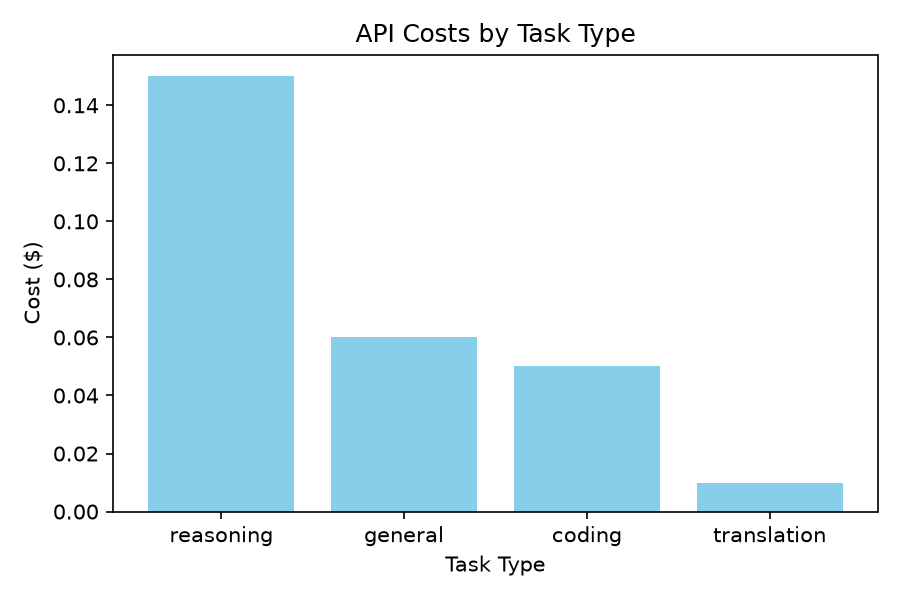
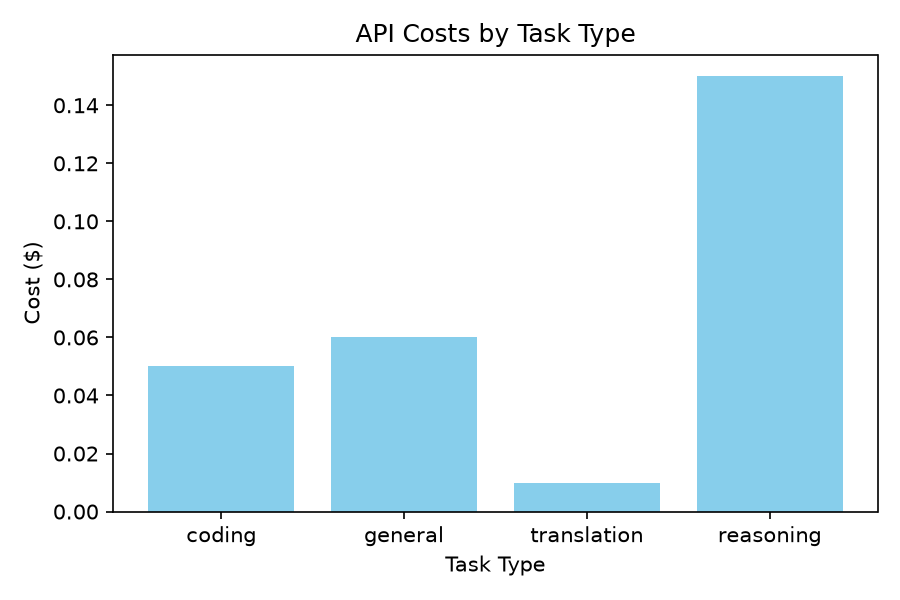
chore: update Cloudflare worker defaults, fix OpenTelemetry app instrumentation, refresh cost report data

diff --git a/infrastructure/cloudflare/worker.js b/infrastructure/cloudflare/worker.js
@@ -20,9 +20,12 @@ const HEALTH_TIMEOUT_MS = 4000;
 /** Build backend list from env, filter unconfigured ones */
 function buildBackends(env) {
   return [
-    { name: "gcp", url: env.GCP_CLOUD_RUN_URL, weight: 40, healthy: true },
-    { name: "railway", url: env.RAILWAY_URL, weight: 35, healthy: true },
-    { name: "render", url: env.RENDER_URL, weight: 25, healthy: true },
+  // GCP Cloud Run — primary (40% traffic)
+  { name: "gcp",     url: env.GCP_CLOUD_RUN_URL ?? "https://supremeai-api-565236080752.us-central1.run.app", weight: 40, healthy: true },
+  // Railway — secondary (35% traffic)
+  { name: "railway", url: env.RAILWAY_URL        ?? "https://supremeai-api-production-c6c8.up.railway.app",  weight: 35, healthy: true },
+  // Render — tertiary (25% traffic)
+  { name: "render",  url: env.RENDER_URL         ?? "https://supremeai-gzwe.onrender.com",                   weight: 25, healthy: true },
   ].filter((b) => b.url && b.url.startsWith("http"));
 }
 

diff --git a/core/app.py b/core/app.py
@@ -89,12 +89,6 @@ app.add_middleware(RateLimitMiddleware, requests_per_minute=120, burst=20)
 app.add_middleware(AuthMiddleware)
 app.add_middleware(ObservabilityMiddleware)
 
-try:
-    from opentelemetry.instrumentation.fastapi import FastAPIInstrumentor
-    FastAPIInstrumentor.instrument_app(app)
-except ImportError:
-    pass
-
 from brain.parallel_cloud_router import ParallelCloudRouter
 from brain.gcp_router import GCPCloudRunRouter
 from core.gcp_firestore import GCPFirestoreVerificationQueue

diff --git a/data/cost_report.md b/data/cost_report.md
@@ -7,7 +7,7 @@
 
 | Task Type | Cost ($) | Percentage |
 | --- | --- | --- |
-| reasoning | $0.1500 | 55.6% |
-| general | $0.0600 | 22.2% |
 | coding | $0.0500 | 18.5% |
+| general | $0.0600 | 22.2% |
 | translation | $0.0100 | 3.7% |
+| reasoning | $0.1500 | 55.6% |